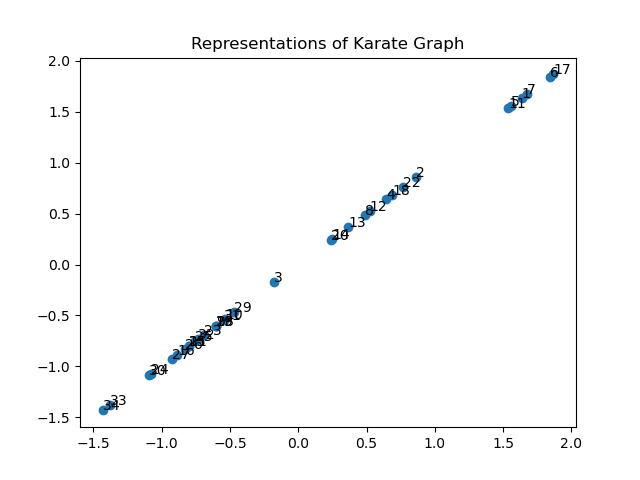
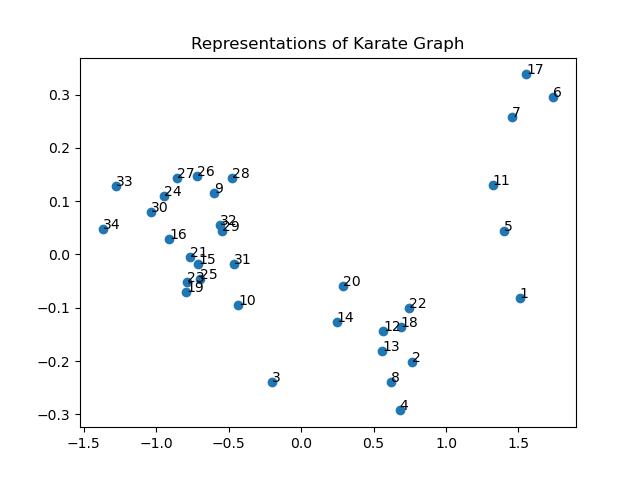
Update Deepwalk

diff --git a/Graph Neural Network/RandomWalk/Deepwalk/graph.py b/Graph Neural Network/RandomWalk/Deepwalk/graph.py
@@ -128,7 +128,7 @@ class Graph(defaultdict):
             pca_result = pca.fit_transform(word_vectors)
             for x,y in pca_result:
                 x_coords.append(x)
-                y_coords.append(x)
+                y_coords.append(y)
             plt.scatter(x_coords, y_coords)
             for i,v in enumerate(edge_list):
                 plt.annotate(v,xy=(x_coords[i],y_coords[i]))
